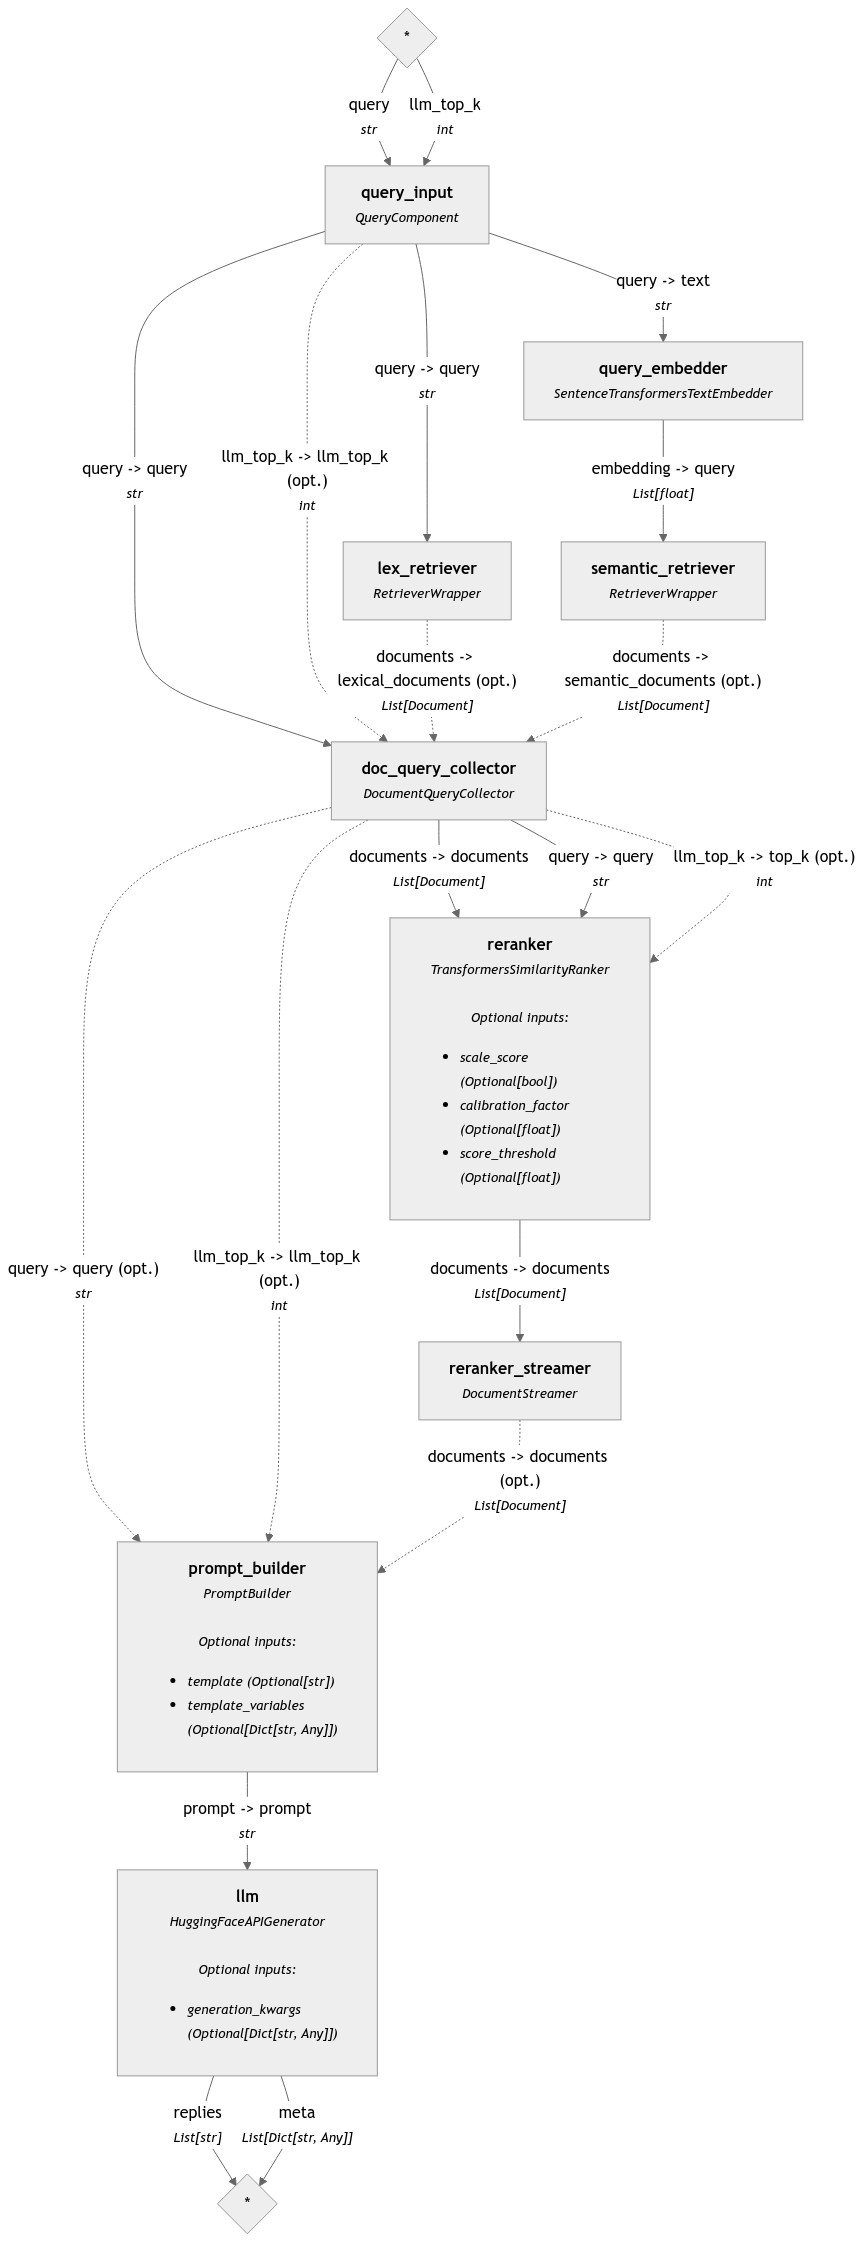
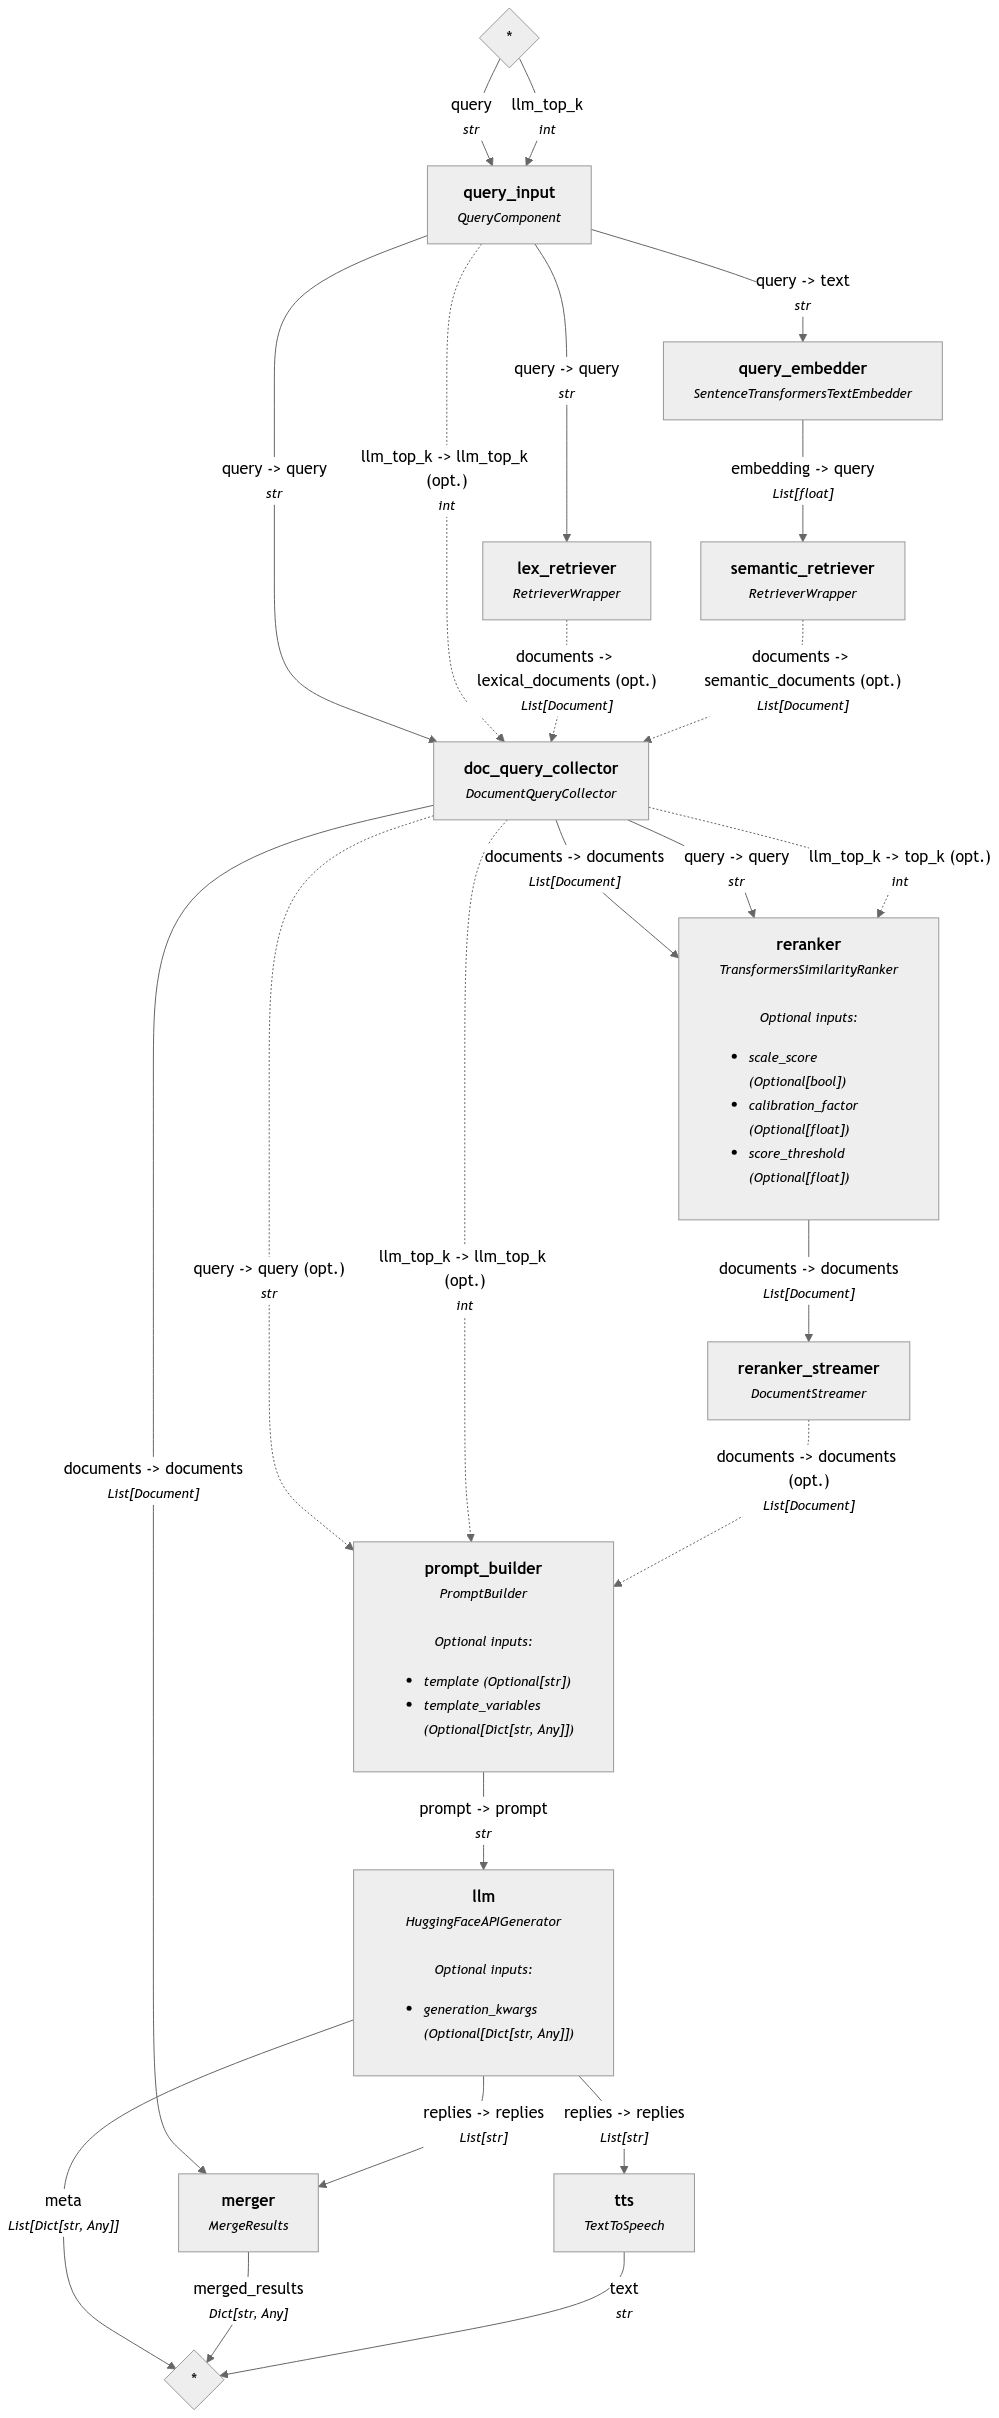
Working on integrating in voice. It works, but it is very slow because it is local.

diff --git a/custom_haystack_components.py b/custom_haystack_components.py
@@ -13,6 +13,8 @@ from haystack.components.preprocessors import DocumentSplitter
 from haystack_integrations.document_stores.pgvector import PgvectorDocumentStore
 # noinspection PyPackageRequirements
 from haystack.components.embedders import SentenceTransformersDocumentEmbedder
+# noinspection PyPackageRequirements
+from haystack.components.generators import HuggingFaceAPIGenerator
 from sentence_transformers import SentenceTransformer
 import re
 from html_parser import HTMLParser
@@ -22,7 +24,10 @@ from pathlib import Path
 from pypdf import PdfReader, DocumentInformation
 import pymupdf4llm
 import pymupdf
-from transformers import pipeline
+from transformers import pipeline, AutoProcessor, BarkModel
+import sounddevice as sd
+import numpy as np
+import torch
 # import markdown
 
 
@@ -65,14 +70,69 @@ def _print_hierarchy(data: Dict[str, Any], level: int) -> None:
 
 @component
 class TextToSpeech:
-    def __init__(self, model_name_or_path: str = "suno/bark"):
-        self.tts_pipeline = pipeline("text-to-speech", model=model_name_or_path)
+    def __init__(self, model_name_or_path: str = "suno/bark-small"):
+        # Initialize the processor
+        self.device = "cuda" if torch.cuda.is_available() else "cpu"
+        self.processor = AutoProcessor.from_pretrained(model_name_or_path, torch_dtype=torch.float16)
+        self.model = BarkModel.from_pretrained(model_name_or_path, torch_dtype=torch.float16).to(self.device)
 
-    @component.output_types(audio=ByteStream, text=str)
-    def run(self, text: str) -> Dict[str, Any]:
-        audio_output = self.tts_pipeline(text)
-        audio_bytes = audio_output[0]['audio'].numpy()
-        return {"audio": audio_bytes, "text": text}
+    @component.output_types(text=str)
+    def run(self, replies: List[str]) -> Dict[str, Any]:
+        reply: str = replies[0]
+        # Split the input text into sentences using regular expression
+        sentences: List[str] = re.split(r'(?<=[.!?])\s+', reply.strip())
+
+        # Initialize an empty list to collect audio chunks
+        audio_chunks = []
+
+        # Process each sentence
+        sentence: str
+        for sentence in sentences:
+            # Use the v2/de_speaker_0 voice preset
+            voice_preset: str = "v2/de_speaker_0"
+
+            # Prepare the inputs for the model
+            inputs: dict = self.processor(sentence,
+                                          voice_preset=voice_preset,
+                                          return_tensors="pt",
+                                          return_attention_mask=True)
+
+            # Ensure inputs are moved to the correct device
+            inputs = {key: value.to(self.device) for key, value in inputs.items()}
+
+            audio_array = self.model.generate(**inputs).to(self.device)
+            audio_array = audio_array.cpu().numpy().squeeze()
+
+            # Play the generated audio immediately
+            self._play_audio(audio_array)
+
+        # After all sentences are processed, return the last audio chunk and the full text
+        return {"text": reply}
+
+    @staticmethod
+    def _play_audio(audio_data: np.ndarray, sample_rate: int = 24000) -> None:
+        """
+        Play audio data locally.
+
+        Args:
+            audio_data (np.ndarray): The audio data as a NumPy array.
+            sample_rate (int): The sample rate for playback.
+        """
+        audio_data = audio_data.astype("float32")
+        sd.play(audio_data, samplerate=sample_rate)
+        sd.wait()  # Wait until the audio finishes playing
+
+
+# @component
+# class TextToSpeech:
+#     def __init__(self, model_name_or_path: str = "suno/bark"):
+#         self.tts_pipeline = pipeline("text-to-speech", model=model_name_or_path)
+#
+#     @component.output_types(audio=ByteStream, text=str)
+#     def run(self, text: str) -> Dict[str, Any]:
+#         audio_output = self.tts_pipeline(text)
+#         audio_bytes = audio_output[0]['audio'].numpy()
+#         return {"audio": audio_bytes, "text": text}
 
 
 @component

diff --git a/rag_pipeline.py b/rag_pipeline.py
@@ -55,6 +55,7 @@ class RagPipeline:
                  retriever_top_k_docs: int = None,
                  search_mode: SearchMode = SearchMode.HYBRID,
                  use_reranker: bool = False,
+                 use_voice: bool = False,
                  include_outputs_from: Optional[set[str]] = None
                  ) -> None:
 
@@ -84,6 +85,8 @@ class RagPipeline:
         self._search_mode: SearchMode = search_mode
         self._allow_streaming_callback: bool = False
         self._use_reranker: bool = use_reranker
+        # Use voice is only used if you are NOT streaming. Otherwise it is ignored.
+        self._use_voice: bool = use_voice
 
         # GPU or CPU
         self._has_cuda: bool = torch.cuda.is_available()
@@ -372,9 +375,11 @@ class RagPipeline:
         # Connect prompt builder to the llm
         rag_pipeline.connect("prompt_builder", "llm")
 
-        tts_node = TextToSpeech()
-        rag_pipeline.add_component("tts", tts_node)
-        rag_pipeline.connect("llm.replies", "tts.text")
+        if self._use_voice and not self._can_stream():
+            # Add the text to speech component
+            tts_node = TextToSpeech()
+            rag_pipeline.add_component("tts", tts_node)
+            rag_pipeline.connect("llm.replies", "tts.replies")
 
         # Set the pipeline instance
         self._rag_pipeline = rag_pipeline
@@ -404,6 +409,7 @@ def main() -> None:
                                              include_outputs_from=include_outputs_from,
                                              search_mode=SearchMode.HYBRID,
                                              use_reranker=True,
+                                             use_voice=True,
                                              embedder_model_name="BAAI/llm-embedder")
 
     if rag_processor.verbose:
@@ -414,7 +420,7 @@ def main() -> None:
         print("Sentence Embedder Dims: " + str(rag_processor.sentence_embed_dims))
         print("Sentence Embedder Context Length: " + str(rag_processor.sentence_context_length))
 
-    query: str = "Should we strive to make our theories as severely testable as possible?"
+    query: str = "How do we test mathematical theories?"
     # "Should we strive to make our theories as severely testable as possible?"
     # "Should you ad hoc save your theory?"
     # "How are refutation, falsification, and testability related?"
